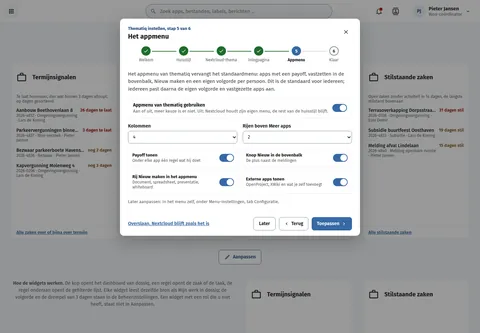
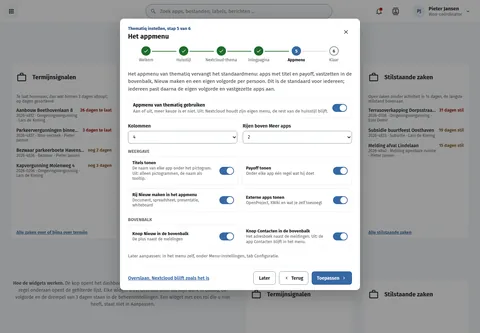
feat(screens): setup wizard step 5 offers titles, payoff and the Contacts button
The apps menu step of thematiq's first-time setup now carries the same theming choices as Menu settings decided on 27 November. Show titles, on by default, sits next to Show payoff; with titles off the payoff switch is disabled and its hint reads Not available without titles. The Contacts button in the top bar joins the two Create switches.

The six switches are grouped under two small headings, View and Top bar, so the step stays calm. The board takes a titels prop (aan or uit) like werkplek/AppMenuInstellingen, and draws the default.

Top bar and Contacts button in the top bar now appear on three boards and moved into the shared English catalogue.

Assisted-by: ClaudeCode:claude-fable-5-1

Changed region(s): [[0.25, 0.4505, 0.75, 0.9009], [0.5938, 0.2102, 0.75, 0.2402]]

diff --git a/preview/screens/boards/TqSetupAppmenu.html b/preview/screens/boards/TqSetupAppmenu.html
@@ -89,7 +89,7 @@ a{color:var(--sc-primary, #3669a5)}a:hover{color:var(--sc-primary-deep, #234a78)
 </div>
 
       <div style="display: flex; flex-direction: column; gap: 16px; padding: 18px 24px 22px">
-        <p style="margin: 0; font-size: 15px; line-height: 1.5; color: var(--sc-work-text, #3d4047)">Het appmenu van thematiq vervangt het standaardmenu: apps met een payoff, vastzetten in de bovenbalk, Nieuw maken en een eigen volgorde per persoon. Dit is de standaard voor iedereen; iedereen past daarna de eigen volgorde en vastgezette apps aan.</p>
+        <p style="margin: 0; font-size: 15px; line-height: 1.5; color: var(--sc-work-text, #3d4047)">Het appmenu van thematiq vervangt het standaardmenu: apps met titel en payoff, vastzetten in de bovenbalk, Nieuw maken en een eigen volgorde per persoon. Dit is de standaard voor iedereen; iedereen past daarna de eigen volgorde en vastgezette apps aan.</p>
         <div style="display: flex; align-items: center; justify-content: space-between; gap: 12px; padding: 12px 14px; border: 1px solid var(--sc-work-line, #e4e6ea); border-radius: 8px">
           <span style="display: flex; flex-direction: column; gap: 2px"><strong style="font-size: 14px">Appmenu van thematiq gebruiken</strong><span style="font-size: 13px; color: var(--sc-work-muted, #5e6168)">Aan of uit, meer keuze is er niet. Uit: Nextcloud houdt zijn eigen menu, de rest van de huisstijl blijft.</span></span>
           <button type="button" role="switch" aria-checked="true" aria-label="Appmenu van thematiq gebruiken" style="flex: none; width: 44px; height: 24px; border: 0; border-radius: 12px; background: var(--sc-primary, #3669a5); position: relative; cursor: pointer"><span style="position: absolute; top: 2px; left: 22px; width: 20px; height: 20px; border-radius: 10px; background: #ffffff"></span></button>
@@ -104,29 +104,51 @@ a{color:var(--sc-primary, #3669a5)}a:hover{color:var(--sc-primary-deep, #234a78)
             <select id="tq-rijen" style="height: 38px; padding: 0 10px; border: 1px solid var(--sc-work-field, #828a95); border-radius: 8px; font: 400 14px var(--sc-font, 'Fira Sans'), sans-serif; background: #ffffff; color: var(--sc-work-ink, #1b1c1d)"><option>1</option><option selected>2</option><option>3</option></select>
           </div>
         </div>
-        <ul style="list-style: none; margin: 0; padding: 0; display: grid; grid-template-columns: repeat(2, minmax(0, 1fr)); gap: 10px">
-          
-            <li style="display: flex; align-items: center; justify-content: space-between; gap: 10px; padding: 10px 12px; border: 1px solid var(--sc-work-line, #e4e6ea); border-radius: 8px">
-              <span style="display: flex; flex-direction: column; gap: 2px; min-width: 0"><strong style="font-size: 13px">Payoff tonen</strong><span style="font-size: 12px; color: var(--sc-work-muted, #5e6168); line-height: 1.3">Onder elke app één regel wat hij doet</span></span>
-              <button type="button" role="switch" aria-checked="true" aria-label="Payoff tonen" style="flex: none; width: 44px; height: 24px; border: 0; border-radius: 12px; background: var(--sc-primary, #3669a5); position: relative; cursor: pointer"><span style="position: absolute; top: 2px; left: 22px; width: 20px; height: 20px; border-radius: 10px; background: #ffffff"></span></button>
-            </li>
-          
-            <li style="display: flex; align-items: center; justify-content: space-between; gap: 10px; padding: 10px 12px; border: 1px solid var(--sc-work-line, #e4e6ea); border-radius: 8px">
-              <span style="display: flex; flex-direction: column; gap: 2px; min-width: 0"><strong style="font-size: 13px">Knop Nieuw in de bovenbalk</strong><span style="font-size: 12px; color: var(--sc-work-muted, #5e6168); line-height: 1.3">De plus naast de meldingen</span></span>
-              <button type="button" role="switch" aria-checked="true" aria-label="Knop Nieuw in de bovenbalk" style="flex: none; width: 44px; height: 24px; border: 0; border-radius: 12px; background: var(--sc-primary, #3669a5); position: relative; cursor: pointer"><span style="position: absolute; top: 2px; left: 22px; width: 20px; height: 20px; border-radius: 10px; background: #ffffff"></span></button>
-            </li>
-          
-            <li style="display: flex; align-items: center; justify-content: space-between; gap: 10px; padding: 10px 12px; border: 1px solid var(--sc-work-line, #e4e6ea); border-radius: 8px">
-              <span style="display: flex; flex-direction: column; gap: 2px; min-width: 0"><strong style="font-size: 13px">Rij Nieuw maken in het appmenu</strong><span style="font-size: 12px; color: var(--sc-work-muted, #5e6168); line-height: 1.3">Document, spreadsheet, presentatie, whiteboard</span></span>
-              <button type="button" role="switch" aria-checked="true" aria-label="Rij Nieuw maken in het appmenu" style="flex: none; width: 44px; height: 24px; border: 0; border-radius: 12px; background: var(--sc-primary, #3669a5); position: relative; cursor: pointer"><span style="position: absolute; top: 2px; left: 22px; width: 20px; height: 20px; border-radius: 10px; background: #ffffff"></span></button>
-            </li>
-          
-            <li style="display: flex; align-items: center; justify-content: space-between; gap: 10px; padding: 10px 12px; border: 1px solid var(--sc-work-line, #e4e6ea); border-radius: 8px">
-              <span style="display: flex; flex-direction: column; gap: 2px; min-width: 0"><strong style="font-size: 13px">Externe apps tonen</strong><span style="font-size: 12px; color: var(--sc-work-muted, #5e6168); line-height: 1.3">OpenProject, XWiki en wat je zelf toevoegt</span></span>
-              <button type="button" role="switch" aria-checked="true" aria-label="Externe apps tonen" style="flex: none; width: 44px; height: 24px; border: 0; border-radius: 12px; background: var(--sc-primary, #3669a5); position: relative; cursor: pointer"><span style="position: absolute; top: 2px; left: 22px; width: 20px; height: 20px; border-radius: 10px; background: #ffffff"></span></button>
-            </li>
-          
-        </ul>
+        
+          <section aria-labelledby="tq-setup-groep-weergave" style="display: flex; flex-direction: column; gap: 8px">
+            <h3 id="tq-setup-groep-weergave" style="margin: 0; font-size: 13px; font-weight: 600; color: var(--sc-work-muted, #5e6168); text-transform: uppercase; letter-spacing: 0.02em">Weergave</h3>
+            <ul style="list-style: none; margin: 0; padding: 0; display: grid; grid-template-columns: repeat(2, minmax(0, 1fr)); gap: 10px">
+              
+                <li style="display: flex; align-items: center; justify-content: space-between; gap: 10px; padding: 10px 12px; border: 1px solid var(--sc-work-line, #e4e6ea); border-radius: 8px">
+                  <span style="display: flex; flex-direction: column; gap: 2px; min-width: 0"><strong id="tq-setup-titels" style="font-size: 13px;">Titels tonen</strong><span id="tq-setup-titels-hulp" style="font-size: 12px; color: var(--sc-work-muted, #5e6168); line-height: 1.3">De naam van elke app onder het pictogram. Uit: alleen pictogrammen, de naam als tooltip.</span></span>
+                  <button type="button" role="switch" aria-checked="true" aria-disabled="false" aria-labelledby="tq-setup-titels" aria-describedby="tq-setup-titels-hulp" style="flex: none; width: 44px; height: 24px; padding: 2px; box-sizing: border-box; border: 0; border-radius: 12px; cursor: pointer; display: flex; align-items: center; justify-content: flex-end; background: var(--sc-primary, #3669a5);"><span style="width: 20px; height: 20px; border-radius: 10px; background: #ffffff; display: block;"></span></button>
+                </li>
+              
+                <li style="display: flex; align-items: center; justify-content: space-between; gap: 10px; padding: 10px 12px; border: 1px solid var(--sc-work-line, #e4e6ea); border-radius: 8px">
+                  <span style="display: flex; flex-direction: column; gap: 2px; min-width: 0"><strong id="tq-setup-payoff" style="font-size: 13px;">Payoff tonen</strong><span id="tq-setup-payoff-hulp" style="font-size: 12px; color: var(--sc-work-muted, #5e6168); line-height: 1.3">Onder elke app één regel wat hij doet</span></span>
+                  <button type="button" role="switch" aria-checked="true" aria-disabled="false" aria-labelledby="tq-setup-payoff" aria-describedby="tq-setup-payoff-hulp" style="flex: none; width: 44px; height: 24px; padding: 2px; box-sizing: border-box; border: 0; border-radius: 12px; cursor: pointer; display: flex; align-items: center; justify-content: flex-end; background: var(--sc-primary, #3669a5);"><span style="width: 20px; height: 20px; border-radius: 10px; background: #ffffff; display: block;"></span></button>
+                </li>
+              
+                <li style="display: flex; align-items: center; justify-content: space-between; gap: 10px; padding: 10px 12px; border: 1px solid var(--sc-work-line, #e4e6ea); border-radius: 8px">
+                  <span style="display: flex; flex-direction: column; gap: 2px; min-width: 0"><strong id="tq-setup-rij" style="font-size: 13px;">Rij Nieuw maken in het appmenu</strong><span id="tq-setup-rij-hulp" style="font-size: 12px; color: var(--sc-work-muted, #5e6168); line-height: 1.3">Document, spreadsheet, presentatie, whiteboard</span></span>
+                  <button type="button" role="switch" aria-checked="true" aria-disabled="false" aria-labelledby="tq-setup-rij" aria-describedby="tq-setup-rij-hulp" style="flex: none; width: 44px; height: 24px; padding: 2px; box-sizing: border-box; border: 0; border-radius: 12px; cursor: pointer; display: flex; align-items: center; justify-content: flex-end; background: var(--sc-primary, #3669a5);"><span style="width: 20px; height: 20px; border-radius: 10px; background: #ffffff; display: block;"></span></button>
+                </li>
+              
+                <li style="display: flex; align-items: center; justify-content: space-between; gap: 10px; padding: 10px 12px; border: 1px solid var(--sc-work-line, #e4e6ea); border-radius: 8px">
+                  <span style="display: flex; flex-direction: column; gap: 2px; min-width: 0"><strong id="tq-setup-extern" style="font-size: 13px;">Externe apps tonen</strong><span id="tq-setup-extern-hulp" style="font-size: 12px; color: var(--sc-work-muted, #5e6168); line-height: 1.3">OpenProject, XWiki en wat je zelf toevoegt</span></span>
+                  <button type="button" role="switch" aria-checked="true" aria-disabled="false" aria-labelledby="tq-setup-extern" aria-describedby="tq-setup-extern-hulp" style="flex: none; width: 44px; height: 24px; padding: 2px; box-sizing: border-box; border: 0; border-radius: 12px; cursor: pointer; display: flex; align-items: center; justify-content: flex-end; background: var(--sc-primary, #3669a5);"><span style="width: 20px; height: 20px; border-radius: 10px; background: #ffffff; display: block;"></span></button>
+                </li>
+              
+            </ul>
+          </section>
+        
+          <section aria-labelledby="tq-setup-groep-bovenbalk" style="display: flex; flex-direction: column; gap: 8px">
+            <h3 id="tq-setup-groep-bovenbalk" style="margin: 0; font-size: 13px; font-weight: 600; color: var(--sc-work-muted, #5e6168); text-transform: uppercase; letter-spacing: 0.02em">Bovenbalk</h3>
+            <ul style="list-style: none; margin: 0; padding: 0; display: grid; grid-template-columns: repeat(2, minmax(0, 1fr)); gap: 10px">
+              
+                <li style="display: flex; align-items: center; justify-content: space-between; gap: 10px; padding: 10px 12px; border: 1px solid var(--sc-work-line, #e4e6ea); border-radius: 8px">
+                  <span style="display: flex; flex-direction: column; gap: 2px; min-width: 0"><strong id="tq-setup-knop" style="font-size: 13px;">Knop Nieuw in de bovenbalk</strong><span id="tq-setup-knop-hulp" style="font-size: 12px; color: var(--sc-work-muted, #5e6168); line-height: 1.3">De plus naast de meldingen</span></span>
+                  <button type="button" role="switch" aria-checked="true" aria-disabled="false" aria-labelledby="tq-setup-knop" aria-describedby="tq-setup-knop-hulp" style="flex: none; width: 44px; height: 24px; padding: 2px; box-sizing: border-box; border: 0; border-radius: 12px; cursor: pointer; display: flex; align-items: center; justify-content: flex-end; background: var(--sc-primary, #3669a5);"><span style="width: 20px; height: 20px; border-radius: 10px; background: #ffffff; display: block;"></span></button>
+                </li>
+              
+                <li style="display: flex; align-items: center; justify-content: space-between; gap: 10px; padding: 10px 12px; border: 1px solid var(--sc-work-line, #e4e6ea); border-radius: 8px">
+                  <span style="display: flex; flex-direction: column; gap: 2px; min-width: 0"><strong id="tq-setup-contacten" style="font-size: 13px;">Knop Contacten in de bovenbalk</strong><span id="tq-setup-contacten-hulp" style="font-size: 12px; color: var(--sc-work-muted, #5e6168); line-height: 1.3">Het adresboek naast de meldingen. Uit: de app Contacten blijft in het menu.</span></span>
+                  <button type="button" role="switch" aria-checked="true" aria-disabled="false" aria-labelledby="tq-setup-contacten" aria-describedby="tq-setup-contacten-hulp" style="flex: none; width: 44px; height: 24px; padding: 2px; box-sizing: border-box; border: 0; border-radius: 12px; cursor: pointer; display: flex; align-items: center; justify-content: flex-end; background: var(--sc-primary, #3669a5);"><span style="width: 20px; height: 20px; border-radius: 10px; background: #ffffff; display: block;"></span></button>
+                </li>
+              
+            </ul>
+          </section>
+        
         <span style="font-size: 13px; color: var(--sc-work-muted, #5e6168)">Later aanpassen: in het menu zelf, onder Menu-instellingen, tab Configuratie.</span>
       </div>
       <div style="display: flex; flex-wrap: wrap; align-items: center; gap: 10px; padding: 16px 24px; border-top: 1px solid var(--sc-work-soft, #eef0f3)">

diff --git a/screens-src/zuiddrecht/TqSetupAppmenu.dc.html b/screens-src/zuiddrecht/TqSetupAppmenu.dc.html
@@ -24,7 +24,7 @@ a{color:#3669a5}a:hover{color:#234a78}
       </div>
       <dc-import name="TqSetupStappen" current="5" hint-size="720px,70px"></dc-import>
       <div style="display: flex; flex-direction: column; gap: 16px; padding: 18px 24px 22px">
-        <p style="margin: 0; font-size: 15px; line-height: 1.5; color: #3d4047">Het appmenu van thematiq vervangt het standaardmenu: apps met een payoff, vastzetten in de bovenbalk, Nieuw maken en een eigen volgorde per persoon. Dit is de standaard voor iedereen; iedereen past daarna de eigen volgorde en vastgezette apps aan.</p>
+        <p style="margin: 0; font-size: 15px; line-height: 1.5; color: #3d4047">Het appmenu van thematiq vervangt het standaardmenu: apps met titel en payoff, vastzetten in de bovenbalk, Nieuw maken en een eigen volgorde per persoon. Dit is de standaard voor iedereen; iedereen past daarna de eigen volgorde en vastgezette apps aan.</p>
         <div style="display: flex; align-items: center; justify-content: space-between; gap: 12px; padding: 12px 14px; border: 1px solid #e4e6ea; border-radius: 8px">
           <span style="display: flex; flex-direction: column; gap: 2px"><strong style="font-size: 14px">Appmenu van thematiq gebruiken</strong><span style="font-size: 13px; color: #5e6168">Aan of uit, meer keuze is er niet. Uit: Nextcloud houdt zijn eigen menu, de rest van de huisstijl blijft.</span></span>
           <button type="button" role="switch" aria-checked="true" aria-label="Appmenu van thematiq gebruiken" style="flex: none; width: 44px; height: 24px; border: 0; border-radius: 12px; background: #3669a5; position: relative; cursor: pointer"><span style="position: absolute; top: 2px; left: 22px; width: 20px; height: 20px; border-radius: 10px; background: #ffffff"></span></button>
@@ -39,14 +39,19 @@ a{color:#3669a5}a:hover{color:#234a78}
             <select id="tq-rijen" style="height: 38px; padding: 0 10px; border: 1px solid #828a95; border-radius: 8px; font: 400 14px 'Fira Sans', sans-serif; background: #ffffff; color: #1b1c1d"><option>1</option><option selected>2</option><option>3</option></select>
           </div>
         </div>
-        <ul style="list-style: none; margin: 0; padding: 0; display: grid; grid-template-columns: repeat(2, minmax(0, 1fr)); gap: 10px">
-          <sc-for list="{{ toggles }}" as="t" hint-placeholder-count="4">
-            <li style="display: flex; align-items: center; justify-content: space-between; gap: 10px; padding: 10px 12px; border: 1px solid #e4e6ea; border-radius: 8px">
-              <span style="display: flex; flex-direction: column; gap: 2px; min-width: 0"><strong style="font-size: 13px">{{ t.name }}</strong><span style="font-size: 12px; color: #5e6168; line-height: 1.3">{{ t.note }}</span></span>
-              <button type="button" role="switch" aria-checked="true" aria-label="{{ t.name }}" style="flex: none; width: 44px; height: 24px; border: 0; border-radius: 12px; background: #3669a5; position: relative; cursor: pointer"><span style="position: absolute; top: 2px; left: 22px; width: 20px; height: 20px; border-radius: 10px; background: #ffffff"></span></button>
-            </li>
-          </sc-for>
-        </ul>
+        <sc-for list="{{ groups }}" as="g" hint-placeholder-count="2">
+          <section aria-labelledby="{{ g.id }}" style="display: flex; flex-direction: column; gap: 8px">
+            <h3 id="{{ g.id }}" style="margin: 0; font-size: 13px; font-weight: 600; color: #5e6168; text-transform: uppercase; letter-spacing: 0.02em">{{ g.name }}</h3>
+            <ul style="list-style: none; margin: 0; padding: 0; display: grid; grid-template-columns: repeat(2, minmax(0, 1fr)); gap: 10px">
+              <sc-for list="{{ g.toggles }}" as="t" hint-placeholder-count="4">
+                <li style="display: flex; align-items: center; justify-content: space-between; gap: 10px; padding: 10px 12px; border: 1px solid #e4e6ea; border-radius: 8px">
+                  <span style="display: flex; flex-direction: column; gap: 2px; min-width: 0"><strong id="{{ t.id }}" style="{{ t.nameStyle }}">{{ t.name }}</strong><span id="{{ t.helpId }}" style="font-size: 12px; color: #5e6168; line-height: 1.3">{{ t.note }}</span></span>
+                  <button type="button" role="switch" aria-checked="{{ t.on }}" aria-disabled="{{ t.disabled }}" aria-labelledby="{{ t.id }}" aria-describedby="{{ t.helpId }}" style="{{ t.switchStyle }}"><span style="{{ t.knobStyle }}"></span></button>
+                </li>
+              </sc-for>
+            </ul>
+          </section>
+        </sc-for>
         <span style="font-size: 13px; color: #5e6168">Later aanpassen: in het menu zelf, onder Menu-instellingen, tab Configuratie.</span>
       </div>
       <div style="display: flex; flex-wrap: wrap; align-items: center; gap: 10px; padding: 16px 24px; border-top: 1px solid #eef0f3">
@@ -59,16 +64,31 @@ a{color:#3669a5}a:hover{color:#234a78}
   </div>
 </div>
 </x-dc>
-<script type="text/x-dc" data-dc-script data-props='{"$preview":{"width":1440,"height":1000}}'>
+<script type="text/x-dc" data-dc-script data-props='{"$preview":{"width":1440,"height":1000},"titels":"aan"}'>
 class Component extends DCLogic {
   renderVals() {
-    const toggles = [
-      ['Payoff tonen', 'Onder elke app één regel wat hij doet'],
-      ['Knop Nieuw in de bovenbalk', 'De plus naast de meldingen'],
-      ['Rij Nieuw maken in het appmenu', 'Document, spreadsheet, presentatie, whiteboard'],
-      ['Externe apps tonen', 'OpenProject, XWiki en wat je zelf toevoegt']
-    ].map(([name, note]) => ({ name, note }));
-    return { toggles };
+    const titled = (this.props.titels ?? 'aan') !== 'uit';
+    const sw = (on) => 'flex: none; width: 44px; height: 24px; padding: 2px; box-sizing: border-box; border: 0; border-radius: 12px; cursor: pointer; display: flex; align-items: center; justify-content: ' + (on ? 'flex-end' : 'flex-start') + '; background: ' + (on ? '#3669a5' : '#828a95') + ';';
+    const knob = 'width: 20px; height: 20px; border-radius: 10px; background: #ffffff; display: block;';
+    const toggle = ([id, name, note, on, disabled]) => ({
+      id: 'tq-setup-' + id, helpId: 'tq-setup-' + id + '-hulp', name, note,
+      on: on ? 'true' : 'false', disabled: disabled ? 'true' : 'false',
+      nameStyle: 'font-size: 13px;' + (disabled ? ' color: #5e6168;' : ''),
+      switchStyle: sw(on) + (disabled ? ' opacity: 0.45; cursor: default;' : ''), knobStyle: knob
+    });
+    const groups = [
+      ['weergave', 'Weergave', [
+        ['titels', 'Titels tonen', 'De naam van elke app onder het pictogram. Uit: alleen pictogrammen, de naam als tooltip.', titled, false],
+        ['payoff', 'Payoff tonen', titled ? 'Onder elke app één regel wat hij doet' : 'Niet beschikbaar zonder titels', titled, !titled],
+        ['rij', 'Rij Nieuw maken in het appmenu', 'Document, spreadsheet, presentatie, whiteboard', true, false],
+        ['extern', 'Externe apps tonen', 'OpenProject, XWiki en wat je zelf toevoegt', true, false]
+      ]],
+      ['bovenbalk', 'Bovenbalk', [
+        ['knop', 'Knop Nieuw in de bovenbalk', 'De plus naast de meldingen', true, false],
+        ['contacten', 'Knop Contacten in de bovenbalk', 'Het adresboek naast de meldingen. Uit: de app Contacten blijft in het menu.', true, false]
+      ]]
+    ].map(([id, name, toggles]) => ({ id: 'tq-setup-groep-' + id, name, toggles: toggles.map(toggle) }));
+    return { groups };
   }
 }
 </script>
